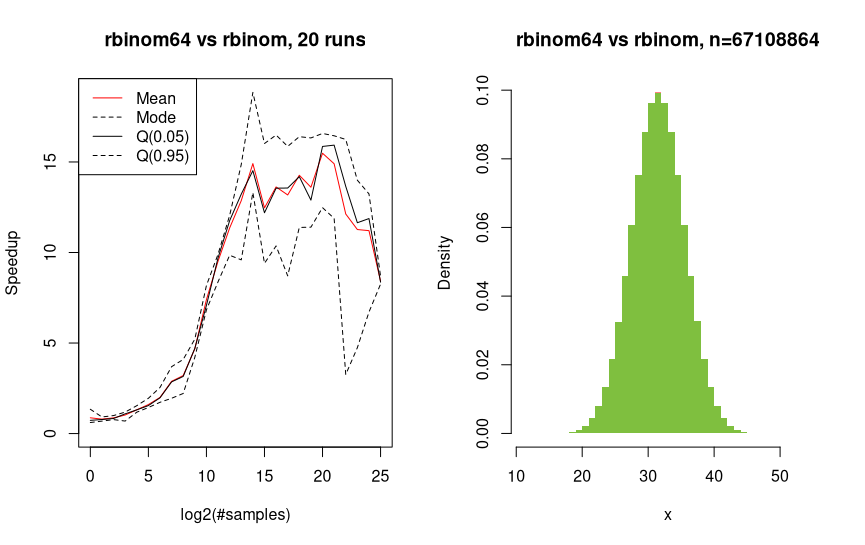
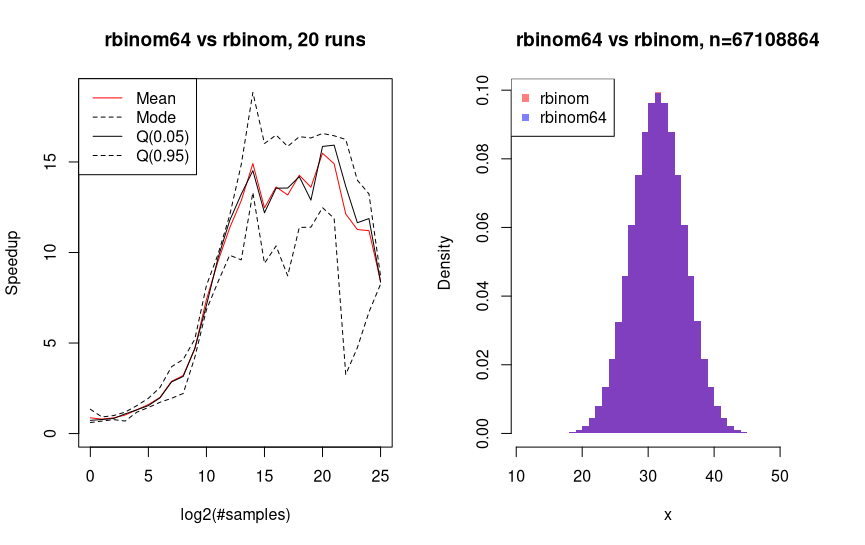
rbinom

Changed region(s): [[0.6555, 0.156, 0.874, 0.811], [0.5931, 0.1248, 0.7179, 0.2495]]

diff --git a/_posts/2025-05-24-simulating-binomial.md b/_posts/2025-05-24-simulating-binomial.md
@@ -57,7 +57,7 @@ for(i in seq_along(samples)){
 }
 ```
 
-Now plot the speedup against the sample size. Additionally, plot the histogram to check if they match.
+Now plot the speedup against the sample size. Additionally, plot the histogram to check if they match (they do: red + blue = purple).
 
 ```R
 speedup = res1/res2
